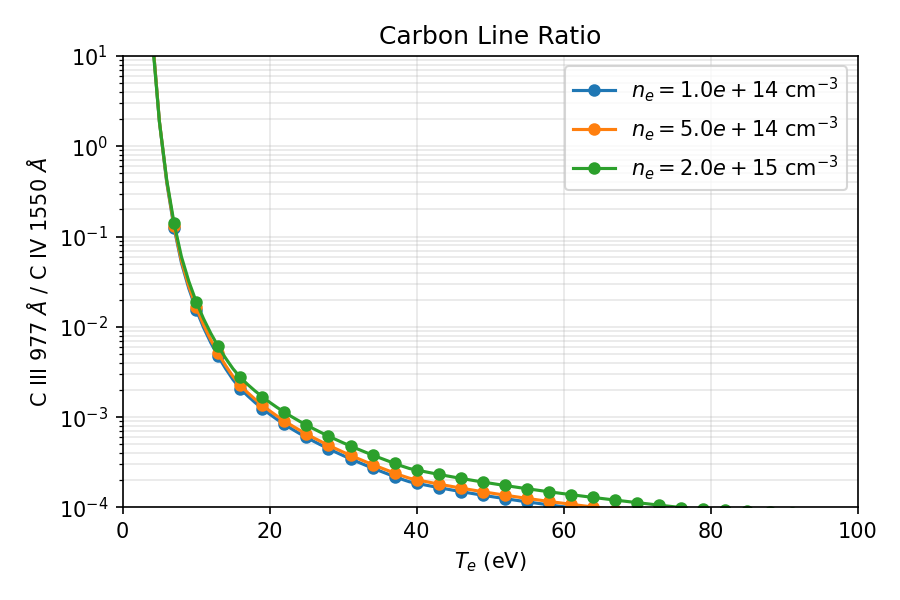
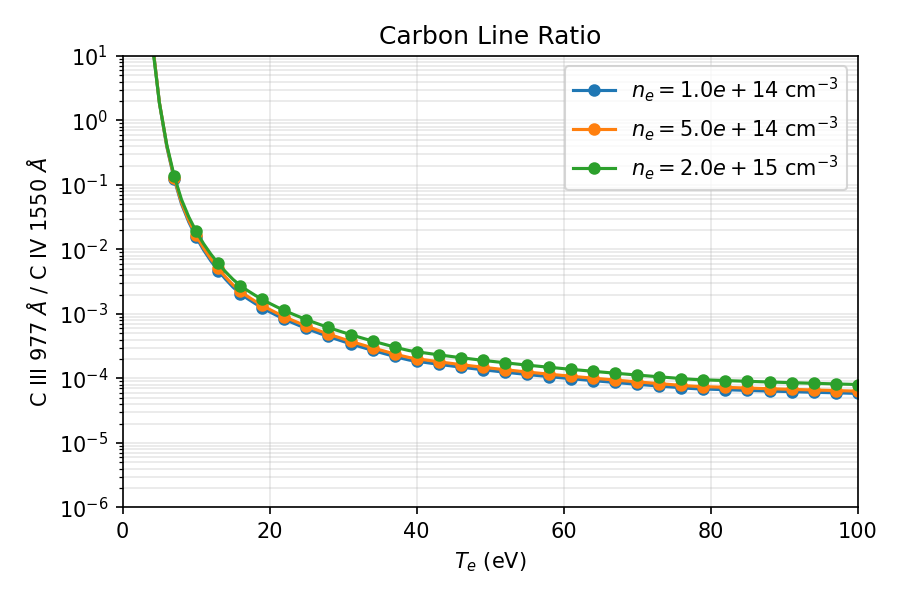
Continued working on FIG 3 scripts

diff --git a/scripts/fig3_v2.2.py b/scripts/fig3_v2.2.py
@@ -135,6 +135,40 @@ def get_line_pec(adf04_file, target_wave_nm, te, ne, metastables):
 
     idx = np.argmin(np.abs(waves - target_wave_nm))
     actual_wave = waves[idx]
+    
+    idx60 = np.argmin(np.abs(te - 60.0))
+
+    print("\n  PEC-related quantities at 60 eV:")
+
+    for key in ["pecs", "plt", "pls", "prb"]:
+        arr = cr.data["processed"].get(key)
+
+        if arr is None:
+            print(f"    {key}: not found")
+            continue
+
+        arr = np.asarray(arr)
+        print(f"    {key} shape: {arr.shape}")
+
+        try:
+            if arr.ndim == 4:
+                vals = arr[idx, :, idx60, 0]
+                print(f"    {key} by metastable: {vals}")
+                print(f"    {key} summed:        {np.sum(vals):.6e}")
+
+            elif arr.ndim == 3:
+                vals = arr[idx, :, idx60]
+                print(f"    {key} by metastable: {vals}")
+                print(f"    {key} summed:        {np.sum(vals):.6e}")
+
+            elif arr.ndim == 2:
+                print(f"    {key}: {arr[idx, idx60]:.6e}")
+
+            else:
+                print(f"    {key}: cannot parse ndim={arr.ndim}")
+
+        except Exception as err:
+            print(f"    {key}: could not index cleanly -> {err}")
 
     pec_by_meta = pecs[idx, :, :, 0]
     pec = np.sum(pec_by_meta, axis=0)
@@ -155,7 +189,7 @@ def get_line_pec(adf04_file, target_wave_nm, te, ne, metastables):
     return actual_wave, pec
 
 
-def print_lines_near(adf04_file, te, ne, metastables, center_nm, width_nm=1.0):
+def print_lines_near(adf04_file, te, ne, metastables, center_nm, width_nm=10.0):
     """
     Print candidate spectral lines near a target wavelength.
     """
@@ -298,8 +332,8 @@ def compute_result_for_density(density):
     ne = np.array([density])
 
     # Diagnostic line searches
-    print_lines_near(FILES[2], TE, ne, METAS[2], CIII_TARGET_NM, width_nm=1.0)
-    print_lines_near(FILES[3], TE, ne, METAS[3], CIV_TARGET_NM, width_nm=1.0)
+    print_lines_near(FILES[2], TE, ne, METAS[2], CIII_TARGET_NM, width_nm=10.0)
+    print_lines_near(FILES[3], TE, ne, METAS[3], CIV_TARGET_NM, width_nm=10.0)
 
     # Ionization balance
     ib = build_ionization_balance(TE, ne)
@@ -376,7 +410,7 @@ def plot_line_ratio(results):
     plt.title("Carbon Line Ratio")
 
     plt.xlim(0, 100)
-    plt.ylim(1e-4, 1e1)
+    plt.ylim(1e-6, 1e1)
 
     plt.grid(True, which="both", alpha=0.3)
     plt.legend()